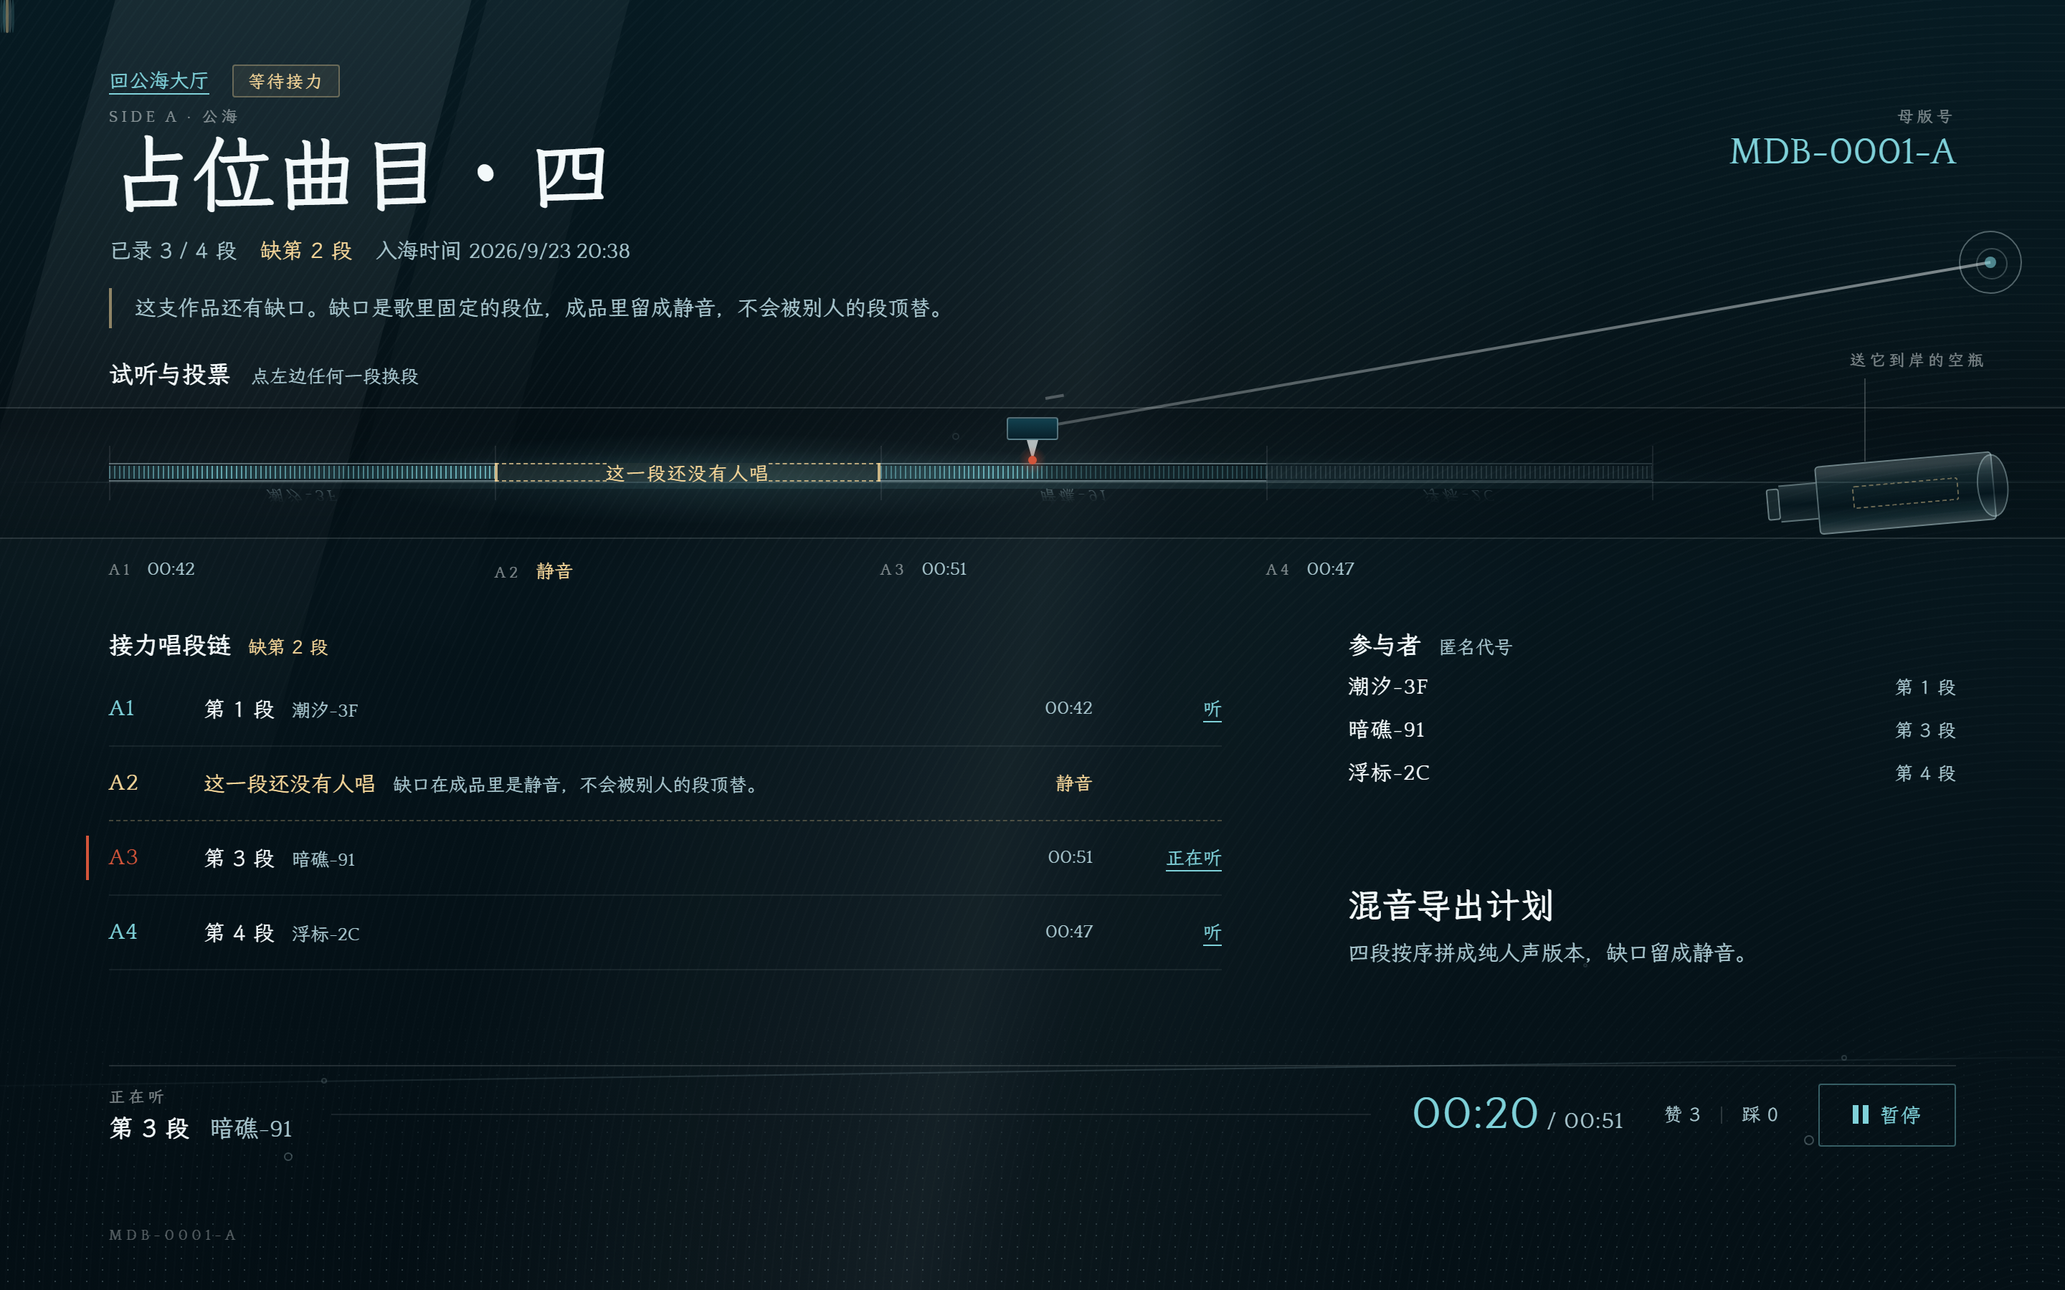
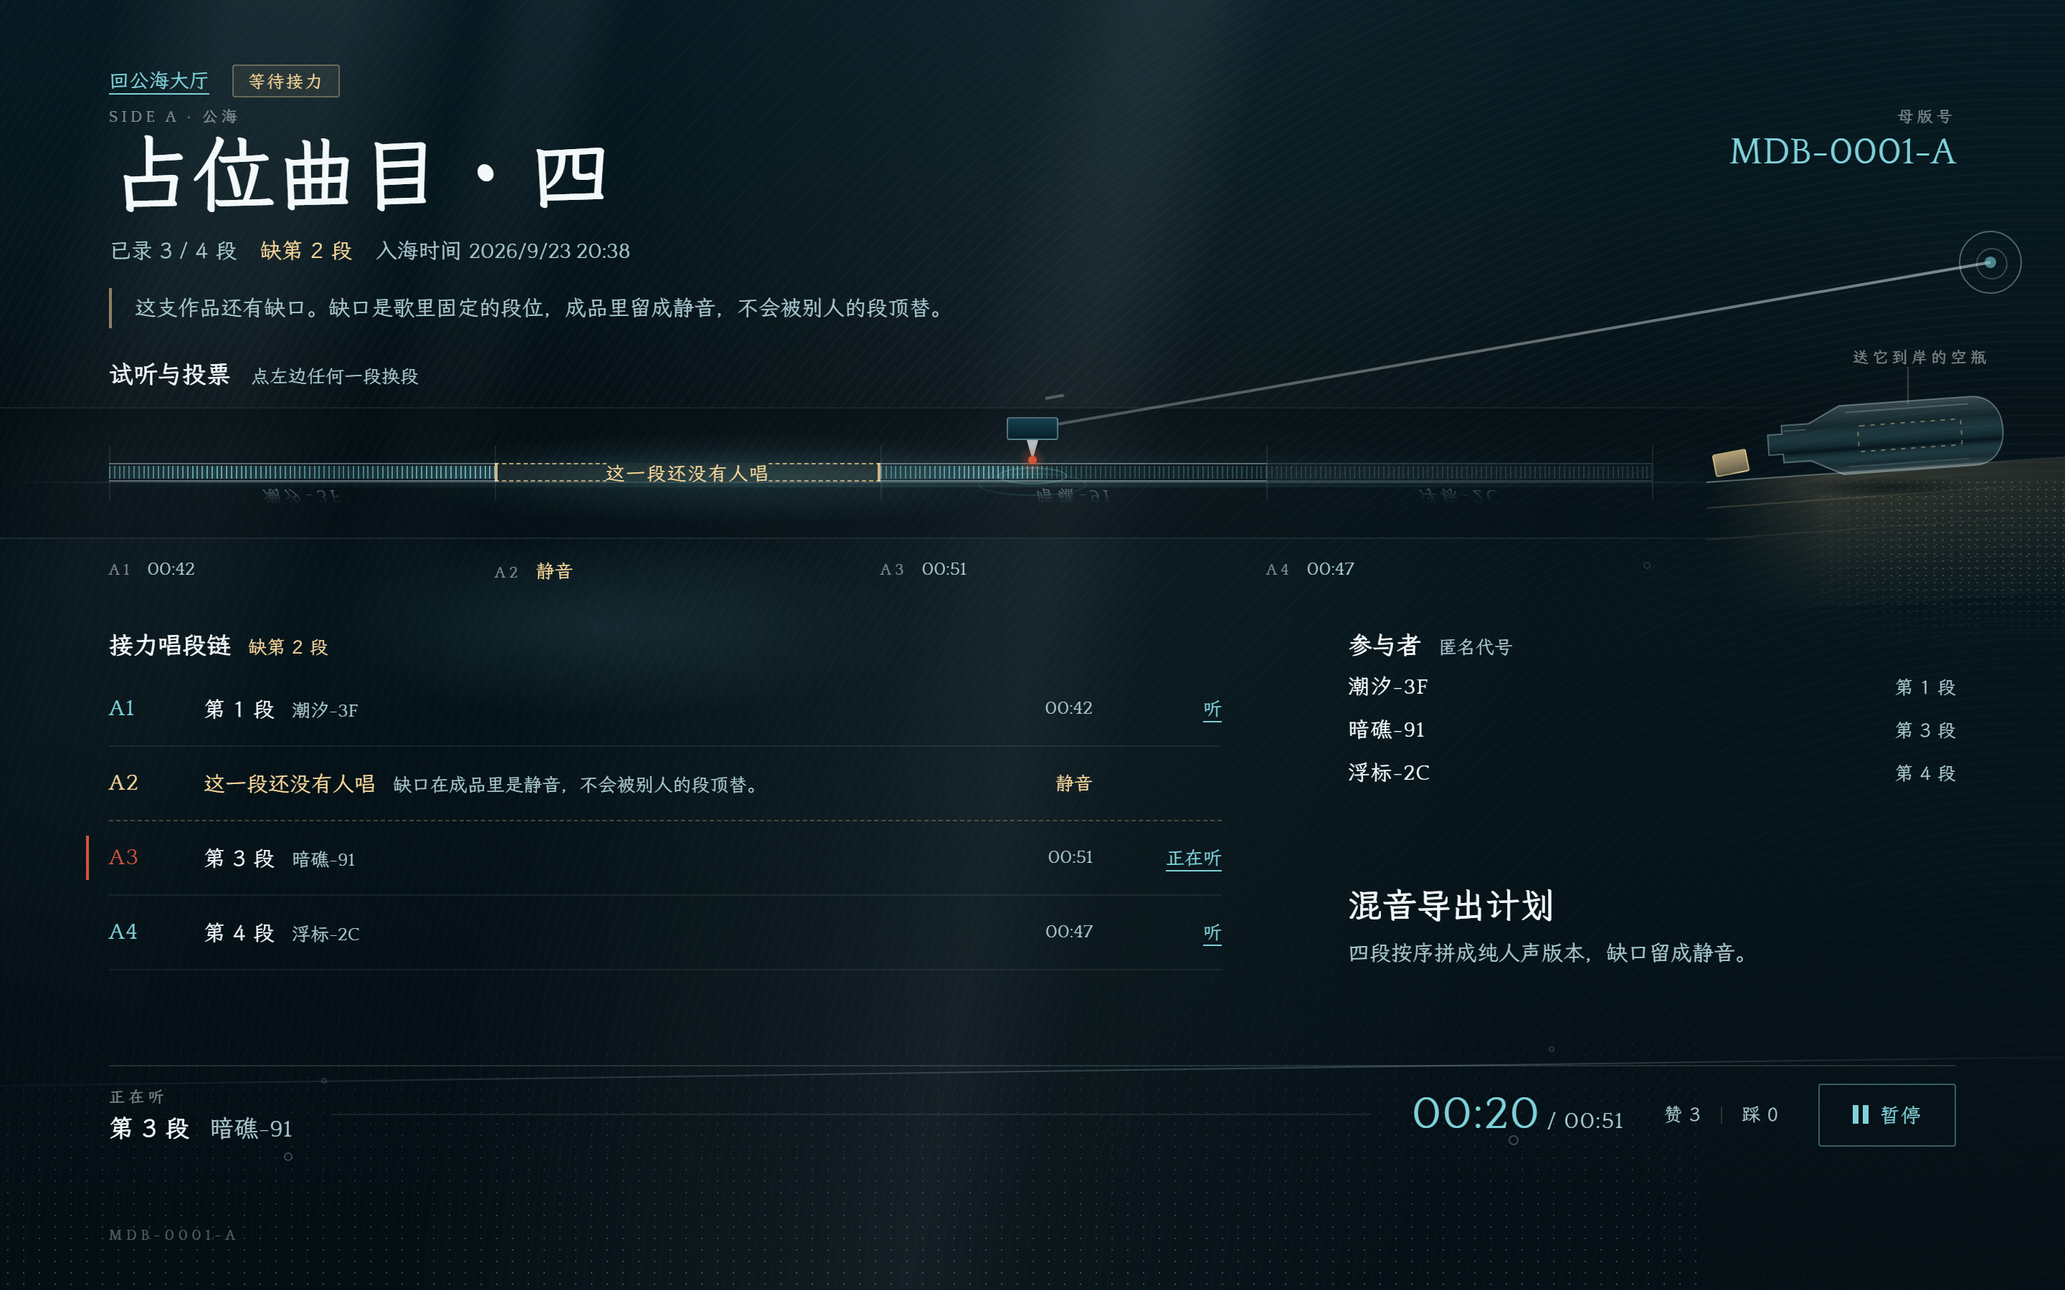
docs(design-explore): 公海作品详情重塑 —— 沟槽即水线，左是水右是岸，空瓶搁在岸上
装置（承接 §7『到岸』）：横向沟槽＝时间轴＋水面；唱针 x=720＝播放头（珊瑚点＋两圈涟漪＝唱针入水）；缺口＝被切断的空槽。新增两个承担信息的水/瓶装置：① **沟槽下方的倒影＝唱这一段的人**（scaleY(-1) 竖向镜像＋向下淡出）——唱过才有、没唱过就没有，缺口那段水面上什么都没有；② 水到 x=1190 为止，右上是**岸**，岸上搁着**到岸的空瓶**（瓶塞拔出来丢在旁边、瓶里纸条的位置只剩虚线轮廓＝与缺口同一套『缺席』语法）。唱片降为载体（盘面纹理 opacity 0.9→0.48）。

作者自报并已修的真 bug：.b-cork/.btmark/.rip1/.rip2 漏写 position:absolute ⇒ 瓶塞与唱针涟漪一直在页面左上角当行内元素排着、从未出现在画面里；补 .float > * { position:absolute } 后用像素复核（瓶塞框平均亮度 139、岸线斜率吻合）。captain 已看图确认两者现在在位。

已知弱点（作者自陈，我认可）：『岸』是最弱一环 —— 缩略图尺度下只是右端一条偏暖窄带，『到岸』过度依赖那行 11px 小标注；y≈690–860 中下段偏空；倒影有意压低对比，暗屏上可能被当成脏点。

待裁决（captain 上报）：本页在主沟槽处有一条横贯的水线 y≈336.5，按用户『水线只留两页（设置/审核台）』的去重规则，它是第 6 条 —— 但它同时是『岸/地平线』（右侧接岸），语义与那两页的『水位线切分上下』不完全同款。需要用户裁一下是保留还是改造。

Changed region(s): [[0.8125, 0.2489, 1.0, 0.4356], [0.0, 0.0, 0.0312, 0.0311]]

diff --git a/docs/ui-review/design-explore/p-sea-detail-record.html b/docs/ui-review/design-explore/p-sea-detail-record.html
@@ -37,29 +37,61 @@
         background:linear-gradient(101deg, transparent 28%, rgba(228,247,252,.045) 45%, rgba(228,247,252,.065) 50%, rgba(228,247,252,.028) 55%, transparent 72%); }
       /* 水面光带：光从左上打下来，在水线上聚成一个亮斑 —— 这是世界的"上方"，瓶子来的方向 */
       .shaft { position:absolute; inset:0; mix-blend-mode:screen; }
-      .shaft b { position:absolute; display:block; transform-origin:0 0; }
+      .shaft b { position:absolute; display:block; transform-origin:0 0;
+        -webkit-mask-image:linear-gradient(90deg, rgba(255,255,255,0), #fff 34%, #fff 66%, rgba(255,255,255,0));
+                mask-image:linear-gradient(90deg, rgba(255,255,255,0), #fff 34%, #fff 66%, rgba(255,255,255,0)); }
       .sh1 { left:150px; top:-260px; width:240px; height:1100px; transform:rotate(15deg);
-        background:linear-gradient(180deg, rgba(228,247,252,.105), rgba(228,247,252,.05) 44%, rgba(228,247,252,0) 74%); }
+        background:linear-gradient(180deg, rgba(228,247,252,.105), rgba(228,247,252,.05) 44%, rgba(228,247,252,0) 88%); }
       .sh2 { left:420px; top:-300px; width:96px; height:1020px; transform:rotate(15deg);
-        background:linear-gradient(180deg, rgba(228,247,252,.075), rgba(228,247,252,.028) 46%, rgba(228,247,252,0) 76%); }
+        background:linear-gradient(180deg, rgba(228,247,252,.075), rgba(228,247,252,.028) 46%, rgba(228,247,252,0) 82%); }
+      .sh3 { left:820px; top:-300px; width:150px; height:1080px; transform:rotate(15deg);
+        background:linear-gradient(180deg, rgba(228,247,252,.05), rgba(228,247,252,.018) 50%, rgba(228,247,252,0) 86%); }
       .hit { left:150px; top:290px; width:700px; height:88px;
         background:radial-gradient(50% 50% at 50% 50%, rgba(127,209,217,.15), rgba(127,209,217,0) 72%); }
+      /* 光柱入水后在水里散开的那一片 */
+      .caustic { left:120px; top:352px; width:600px; height:170px;
+        background:radial-gradient(50% 50% at 50% 50%, rgba(127,209,217,.10), rgba(127,209,217,0) 74%); }
       /* 海底 / 岸边沉积：时间久了的都沉在这里（入海时间越早，越靠下） */
-      .bed { position:absolute; left:0; right:0; bottom:0; height:210px; opacity:.5;
+      .bed { position:absolute; left:0; right:250px; bottom:0; height:240px; opacity:.62;
         background-image:radial-gradient(rgba(169,199,207,.55) .5px, transparent .8px);
         background-size:11px 8px;
         -webkit-mask-image:linear-gradient(180deg, rgba(255,255,255,0), rgba(255,255,255,.3) 40%, #fff);
                 mask-image:linear-gradient(180deg, rgba(255,255,255,0), rgba(255,255,255,.3) 40%, #fff); }
       .bedline { position:absolute; left:-120px; right:-120px; bottom:152px; height:1px; transform:rotate(-.8deg);
-        background:linear-gradient(90deg, transparent 3%, rgba(169,199,207,.14) 28%, rgba(169,199,207,.20) 68%, transparent 97%); }
+        background:linear-gradient(90deg, transparent 3%, rgba(169,199,207,.18) 28%, rgba(169,199,207,.28) 68%, transparent 97%); }
       /* 气泡：深度。只有水和瓶会吐气，稀疏几颗 */
       .bub { position:absolute; border-radius:50%; border:1px solid rgba(216,243,246,.26); }
       .b1 { left:198px; top:804px; width:6px; height:6px; }
       .b2 { left:224px; top:752px; width:4px; height:4px; opacity:.62; }
-      .b3 { left:1258px; top:792px; width:7px; height:7px; }
-      .b4 { left:1284px; top:736px; width:4px; height:4px; opacity:.6; }
-      .b5 { left:1104px; top:672px; width:3px; height:3px; opacity:.5; }
-      .b6 { left:664px; top:302px; width:5px; height:5px; opacity:.55; }
+      .b3 { left:1052px; top:792px; width:7px; height:7px; }
+      .b4 { left:1080px; top:730px; width:4px; height:4px; opacity:.6; }
+      .b5 { left:1100px; top:660px; width:3px; height:3px; opacity:.5; }
+      .b6 { left:1146px; top:392px; width:5px; height:5px; opacity:.5; }
+      /* 岸：水到这里为止。岸面从水线起缓缓抬向右边 —— 作品在左，岸在右，瓶子搁在岸上 */
+      .shore { position:absolute; left:1190px; top:0; width:250px; height:900px;
+        clip-path:polygon(0 37.39%, 100% 35.42%, 100% 46%, 0 47.6%);
+        background:linear-gradient(90deg, rgba(246,215,154,0) 0, rgba(246,215,154,.19) 34%, rgba(246,215,154,.11) 100%);
+        -webkit-mask-image:linear-gradient(180deg, #fff 0 37%, rgba(255,255,255,.32) 44%, rgba(255,255,255,0) 49%);
+                mask-image:linear-gradient(180deg, #fff 0 37%, rgba(255,255,255,.32) 44%, rgba(255,255,255,0) 49%); }
+      .shoreline { position:absolute; left:1190px; top:336px; width:252px; height:1px;
+        transform-origin:0 50%; transform:rotate(-4.06deg);
+        background:linear-gradient(90deg, rgba(216,243,246,.44), rgba(216,243,246,.18) 62%, rgba(216,243,246,.04)); }
+      .sand1 { position:absolute; left:1190px; top:354px; width:250px; height:1px;
+        transform-origin:0 50%; transform:rotate(-4.06deg);
+        background:linear-gradient(90deg, rgba(246,215,154,.20), rgba(246,215,154,.08) 70%, rgba(246,215,154,0)); }
+      .sand2 { position:absolute; left:1190px; top:376px; width:224px; height:1px;
+        transform-origin:0 50%; transform:rotate(-4.06deg);
+        background:linear-gradient(90deg, rgba(246,215,154,.11), rgba(246,215,154,0)); }
+      /* 沙粒：只落在岸面里，靠左的一侧淡出，免得出现一条生硬的直边 */
+      .sdot { position:absolute; left:1244px; top:334px; width:196px; height:118px; opacity:.8;
+        background-image:
+          radial-gradient(rgba(246,215,154,.28) .5px, rgba(246,215,154,0) .9px),
+          radial-gradient(rgba(246,215,154,.17) .5px, rgba(246,215,154,0) .9px),
+          radial-gradient(rgba(246,215,154,.12) .5px, rgba(246,215,154,0) .9px);
+        background-size:6px 5px, 9px 8px, 13px 11px; background-position:0 0, 3px 2px, 7px 5px;
+        -webkit-mask-image:linear-gradient(90deg, rgba(255,255,255,0), #fff 44%), linear-gradient(0deg, rgba(255,255,255,0), #fff 40%);
+                mask-image:linear-gradient(90deg, rgba(255,255,255,0), #fff 44%), linear-gradient(0deg, rgba(255,255,255,0), #fff 40%);
+        -webkit-mask-composite:source-in; mask-composite:intersect; }
 
       main { position:relative; z-index:2; padding:44px 76px 0; }
       .cat { font-family:Quattrocento,'LXGW WenKai',serif; font-size:11px; letter-spacing:.24em; color:rgba(243,249,250,.5); }
@@ -87,17 +119,23 @@
       .deck { margin-top:20px; }
       .deck-h { display:flex; align-items:baseline; gap:14px; }
       .deck-h h2 { font-size:17px; font-weight:700; color:var(--paper); }
+      /* 沟槽带的上下两条细线：靠右淡出，不要把"海"的框线画到岸上去 */
       .band { position:relative; margin:12px -76px 0; height:92px;
-        border-top:1px solid var(--line); border-bottom:1px solid var(--line); }
+        background-image:
+          linear-gradient(90deg, rgba(243,249,250,.13) 0 76%, rgba(243,249,250,0) 88%),
+          linear-gradient(90deg, rgba(243,249,250,.13) 0 76%, rgba(243,249,250,0) 88%);
+        background-size:100% 1px, 100% 1px; background-position:0 0, 0 100%; background-repeat:no-repeat; }
       .band::before { content:''; position:absolute; inset:0;
-        background:linear-gradient(180deg, rgba(5,15,20,.42), rgba(5,15,20,.05) 40%, rgba(5,15,20,.30)); }
+        background:linear-gradient(180deg, rgba(5,15,20,.42), rgba(5,15,20,.05) 40%, rgba(5,15,20,.30));
+        -webkit-mask-image:linear-gradient(90deg, #fff 0 76%, rgba(255,255,255,0) 88%);
+                mask-image:linear-gradient(90deg, #fff 0 76%, rgba(255,255,255,0) 88%); }
       /* 水面上的一点微光，压在水线之上 */
       .sheen { position:absolute; left:0; right:0; top:20px; height:36px; mix-blend-mode:screen;
         background:radial-gradient(58% 100% at 46% 100%, rgba(127,209,217,.11), rgba(127,209,217,0) 74%); }
 
       .groove { position:absolute; left:76px; right:288px; top:50%; height:13px; margin-top:-6.5px; }
-      /* 水线：从沟槽两端继续铺满整幅，作品之外的水面也在这里 */
-      .groove::after { content:''; position:absolute; left:-76px; right:-288px; bottom:-1px; height:1px;
+      /* 水线：从沟槽两端继续铺满整幅水面，到岸边（x=1190）为止 */
+      .groove::after { content:''; position:absolute; left:-76px; right:-38px; bottom:-1px; height:1px;
         background:linear-gradient(90deg, rgba(216,243,246,0) 0%, rgba(216,243,246,.15) 12%,
           rgba(216,243,246,.16) 82%, rgba(216,243,246,.05) 100%); }
       .seg { position:absolute; top:0; height:13px; }
@@ -114,11 +152,11 @@
         background:linear-gradient(90deg, rgba(5,15,20,0), rgba(5,15,20,.44) 8%, rgba(5,15,20,.64) 100%); }
       /* 倒影：这一段是谁唱的。水面反过来照它 —— 唱过就有，没唱过就没有 */
       .refl { position:absolute; top:15px; left:0; right:0; text-align:center;
-        font-family:Quattrocento,'LXGW WenKai',serif; font-size:11px; letter-spacing:.2em;
-        color:rgba(169,199,207,.5); transform:scaleY(-1);
+        font-family:Quattrocento,'LXGW WenKai',serif; font-size:12px; letter-spacing:.22em;
+        color:rgba(169,199,207,.62); transform:scaleY(-1);
         -webkit-mask-image:linear-gradient(0deg, #fff, rgba(255,255,255,.2) 62%, rgba(255,255,255,0) 96%);
                 mask-image:linear-gradient(0deg, #fff, rgba(255,255,255,.2) 62%, rgba(255,255,255,0) 96%); }
-      .seg.off .refl { color:rgba(169,199,207,.3); }
+      .seg.off .refl { color:rgba(169,199,207,.4); }
       /* 缺口：槽壁被切断，只剩两截虚线头 + 两个刀口，中间让出背景；水面上没有倒影 */
       .seg.empty { border-top:1px dashed rgba(246,215,154,.7); border-bottom:1px dashed rgba(246,215,154,.7);
         -webkit-mask-image:linear-gradient(90deg, #fff 0 29%, rgba(255,255,255,0) 29% 71%, #fff 71% 100%);
@@ -135,35 +173,23 @@
       .marks .d { font-family:Quattrocento,'LXGW WenKai',serif; font-size:13px; color:var(--muted); }
       .marks .d.warm { color:var(--warm); }
 
-      /* ---------- 漂到这里的空瓶：它把作品送上水面，自己空了 ---------- */
+      /* ---------- 漂到这里的空瓶：它把作品送上水面，自己空了，搁在岸上 ---------- */
       .float { position:absolute; left:0; top:0; width:1440px; height:900px; z-index:4; pointer-events:none; }
-      .flabel { position:absolute; left:1290px; top:244px; }
-      .flead { position:absolute; left:1300px; top:264px; width:1px; height:58px; background:rgba(243,249,250,.20); }
-      .bottle { position:absolute; left:1232px; top:318px; width:170px; height:60px;
-        transform:rotate(-5deg); transform-origin:30% 50%; }
-      .bottle i { position:absolute; display:block; }
-      .b-lip { left:0; top:19px; width:9px; height:22px; border-radius:2px;
-        border:1px solid rgba(216,243,246,.42); background:rgba(190,232,238,.10); }
-      .b-neck { left:9px; top:17px; width:26px; height:26px;
-        border-top:1px solid rgba(216,243,246,.34); border-bottom:1px solid rgba(216,243,246,.34);
-        background:linear-gradient(180deg, rgba(190,232,238,.14), rgba(6,26,34,.55) 56%, rgba(190,232,238,.10)); }
-      .b-body { left:35px; top:6px; width:124px; height:48px; border-radius:3px;
-        border:1px solid rgba(216,243,246,.36);
-        background:linear-gradient(180deg, rgba(216,243,246,.20) 0 9%, rgba(127,209,217,.10) 27%,
-          rgba(6,24,32,.60) 62%, rgba(127,209,217,.11) 84%, rgba(216,243,246,.22) 100%); }
-      .b-cap { left:147px; top:8px; width:22px; height:44px; border-radius:50%;
-        border:1px solid rgba(216,243,246,.32);
-        background:linear-gradient(180deg, rgba(216,243,246,.18), rgba(6,24,32,.6) 62%, rgba(216,243,246,.2)); }
-      /* 瓶里那张纸条的位置还在，纸条没有了 —— 虚线 = 缺席（同缺口同一种语法） */
-      .b-void { left:60px; top:22px; width:74px; height:16px; border-radius:2px;
-        border:1px dashed rgba(246,215,154,.42); }
-      .b-cork { left:1202px; top:305px; width:20px; height:14px; border-radius:2px;
-        border:1px solid rgba(246,215,154,.42);
-        background:linear-gradient(180deg, rgba(246,215,154,.5), rgba(246,215,154,.2)); }
-      .corkring { left:1188px; top:314px; width:48px; height:11px; border-radius:50%;
-        border:1px solid rgba(216,243,246,.18); }
-      .btring { left:1222px; top:352px; width:154px; height:14px; border-radius:50%;
-        border:1px solid rgba(127,209,217,.15); }
+      .float > * { position:absolute; }
+      .flabel { position:absolute; left:1292px; top:242px; }
+      .flead { position:absolute; left:1330px; top:256px; width:1px; height:26px; background:rgba(243,249,250,.20); }
+      .bottle { position:absolute; left:1230px; top:276px; width:170px; height:62px;
+        transform:rotate(-4deg); transform-origin:32% 50%; }
+      /* 瓶塞被拔出来，丢在瓶子左边的沙上 */
+      .b-cork { left:1195px; top:315px; width:24px; height:16px; border-radius:2px;
+        transform:rotate(-11deg);
+        border:1px solid rgba(246,215,154,.6);
+        background:linear-gradient(180deg, rgba(246,215,154,.72), rgba(246,215,154,.38)); }
+      .corkmark { left:1190px; top:328px; width:36px; height:9px; border-radius:50%;
+        background:radial-gradient(50% 50% at 50% 50%, rgba(5,15,20,.55), rgba(5,15,20,0) 74%); }
+      /* 瓶子压在沙上的那一道暗痕：它搁在这儿，不是浮着 */
+      .btmark { left:1224px; top:330px; width:184px; height:20px; border-radius:50%;
+        background:radial-gradient(50% 50% at 50% 50%, rgba(5,15,20,.6), rgba(5,15,20,0) 72%); }
       /* 唱针落水的那两圈涟漪：交互发生处 */
       .rip1 { left:696px; top:326px; width:48px; height:12px; border-radius:50%;
         border:1px solid rgba(127,209,217,.28); }
@@ -256,10 +282,17 @@
       <div class="shaft">
         <b class="sh1"></b>
         <b class="sh2"></b>
+        <b class="sh3"></b>
         <b class="hit"></b>
+        <b class="caustic"></b>
       </div>
       <div class="bed"></div>
       <i class="bedline"></i>
+      <div class="shore"></div>
+      <i class="shoreline"></i>
+      <i class="sand1"></i>
+      <i class="sand2"></i>
+      <i class="sdot"></i>
       <i class="bub b1"></i>
       <i class="bub b2"></i>
       <i class="bub b3"></i>
@@ -409,15 +442,26 @@
         <p class="cat flabel">送它到岸的空瓶</p>
         <i class="flead"></i>
         <i class="b-cork"></i>
-        <i class="corkring"></i>
-        <i class="btring"></i>
-        <span class="bottle">
-          <i class="b-lip"></i>
-          <i class="b-neck"></i>
-          <i class="b-body"></i>
-          <i class="b-cap"></i>
-          <i class="b-void"></i>
-        </span>
+        <i class="corkmark"></i>
+        <i class="btmark"></i>
+        <svg class="bottle" viewBox="0 0 170 62" aria-hidden="true">
+          <defs>
+            <linearGradient id="glass" x1="0" y1="0" x2="0" y2="1">
+              <stop offset="0" stop-color="#d8f3f6" stop-opacity=".24"></stop>
+              <stop offset=".3" stop-color="#7fd1d9" stop-opacity=".11"></stop>
+              <stop offset=".64" stop-color="#061820" stop-opacity=".62"></stop>
+              <stop offset=".86" stop-color="#7fd1d9" stop-opacity=".12"></stop>
+              <stop offset="1" stop-color="#d8f3f6" stop-opacity=".26"></stop>
+            </linearGradient>
+          </defs>
+          <path d="M3 24 H13 V18 H32 L54 7 H146 C159 7 167 17 167 31 C167 45 159 55 146 55 H54 L32 44 H13 V38 H3 Z"
+            fill="url(#glass)" stroke="#d8f3f6" stroke-opacity=".34" stroke-width="1"></path>
+          <path d="M58 12 H144" stroke="#d8f3f6" stroke-opacity=".22" stroke-width="1"></path>
+          <path d="M58 50 H142" stroke="#d8f3f6" stroke-opacity=".14" stroke-width="1"></path>
+          <path d="M14 22 H30" stroke="#d8f3f6" stroke-opacity=".2" stroke-width="1"></path>
+          <rect x="66" y="22" width="72" height="18" rx="2" fill="none"
+            stroke="#f6d79a" stroke-opacity=".42" stroke-dasharray="3 4"></rect>
+        </svg>
       </div>
 
       <div class="rig" aria-hidden="true">
